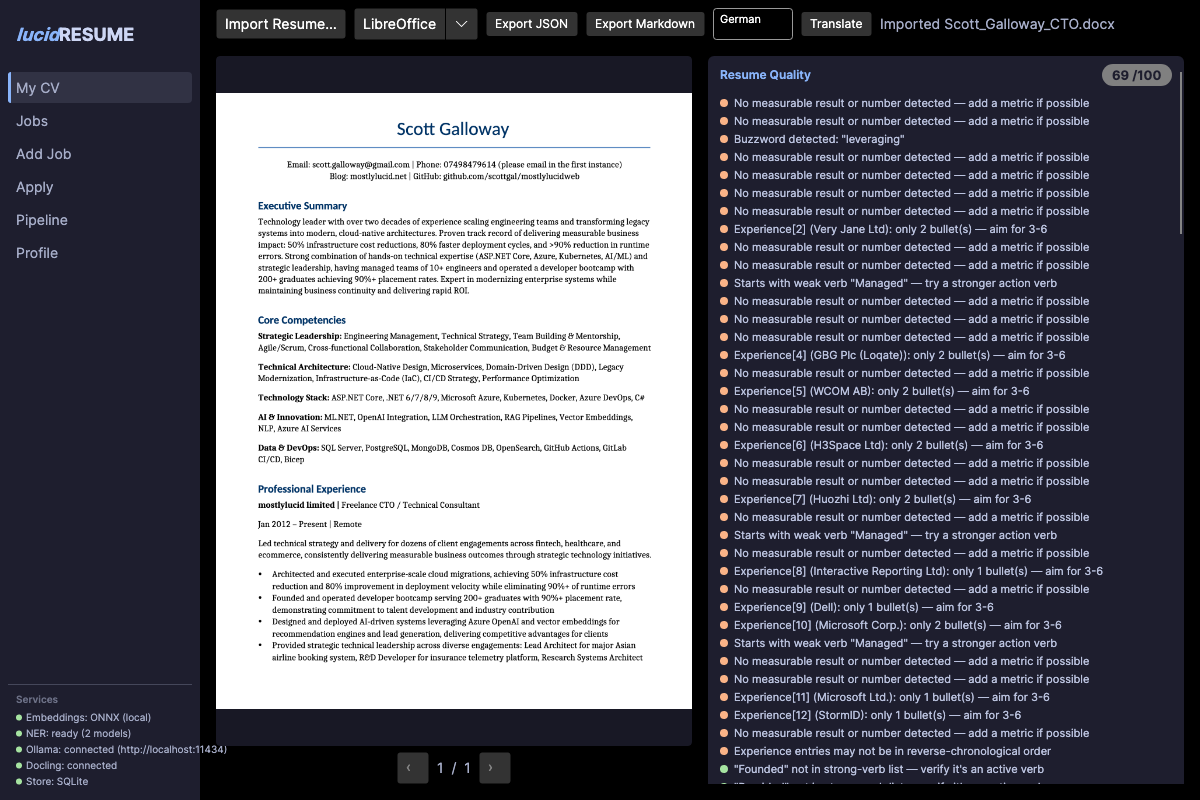
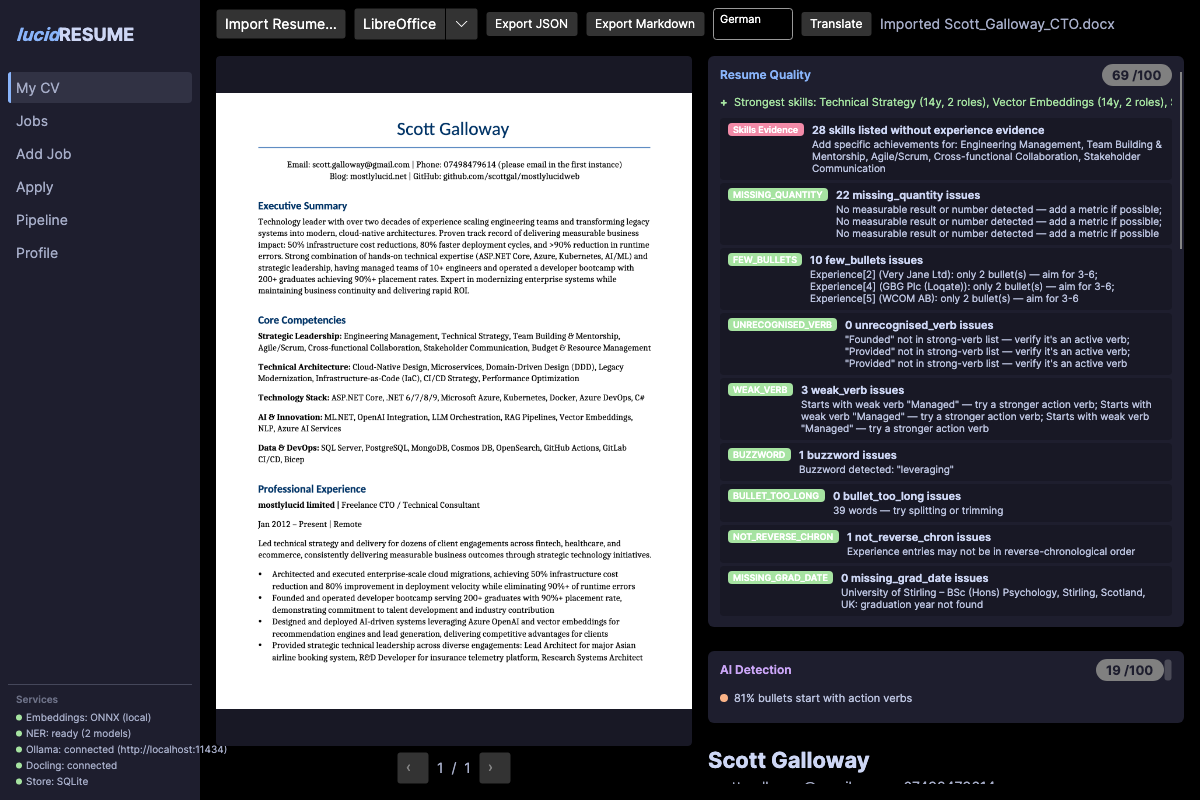
feat: synthesized quality UI — grouped suggestions replace raw findings list
Resume page quality panel now shows:
- Strengths: top skills with years and role count (from skill ledger)
- Grouped suggestions by category (Achievements, Skills Evidence, Sections, etc.)
- Color-coded severity badges (red=Important, yellow=Moderate, green=Minor)
- Concise actionable advice instead of per-bullet findings
- Skill ledger integration: flags unsubstantiated skills, consistency issues
- Raw findings capped at top 5 for backward compat

Before: 30+ individual "No measurable result detected" findings
After: "Most bullets lack measurable results — add metrics to 32 bullets"

Also: QualitySynthesizer registered in DI, updated screenshot

159 tests passing.

Changed region(s): [[0.5858, 0.125, 0.9867, 1.0]]

diff --git a/src/lucidRESUME/ViewModels/Pages/ResumePageViewModel.cs b/src/lucidRESUME/ViewModels/Pages/ResumePageViewModel.cs
@@ -8,6 +8,7 @@ using lucidRESUME.Collabora.DocumentOpeners;
 using lucidRESUME.Collabora.Services;
 using lucidRESUME.AI;
 using lucidRESUME.Core.Interfaces;
+using lucidRESUME.Matching;
 using lucidRESUME.Core.Models.Quality;
 using lucidRESUME.Core.Models.Resume;
 using lucidRESUME.Core.Persistence;
@@ -25,6 +26,8 @@ public sealed partial class ResumePageViewModel : ViewModelBase
     private readonly AiDetectionScorer _aiDetectionScorer;
     private readonly DeAiRewriter _deAiRewriter;
     private readonly ResumeTranslator _translator;
+    private readonly QualitySynthesizer _synthesizer;
+    private readonly SkillLedgerBuilder _ledgerBuilder;
     private readonly IResumeExporter? _jsonExporter;
     private readonly IResumeExporter? _markdownExporter;
     private string? _loadedFilePath;
@@ -57,9 +60,12 @@ public sealed partial class ResumePageViewModel : ViewModelBase
     [ObservableProperty] private IReadOnlyList<SkillGroup> _skillGroups = [];
     [ObservableProperty] private bool _hasResume;
 
-    // Quality analysis
+    // Quality analysis — synthesized suggestions (not raw findings)
     [ObservableProperty] private int _qualityScore;
     [ObservableProperty] private bool _hasQualityReport;
+    [ObservableProperty] private IReadOnlyList<QualitySuggestionViewModel> _qualitySuggestions = [];
+    [ObservableProperty] private IReadOnlyList<string> _resumeStrengths = [];
+    // Keep raw findings for backward compat (used in AI detection too)
     [ObservableProperty] private IReadOnlyList<QualityFindingViewModel> _qualityFindings = [];
 
     // AI detection
@@ -85,6 +91,8 @@ public sealed partial class ResumePageViewModel : ViewModelBase
         AiDetectionScorer aiDetectionScorer,
         DeAiRewriter deAiRewriter,
         ResumeTranslator translator,
+        QualitySynthesizer synthesizer,
+        SkillLedgerBuilder ledgerBuilder,
         IEnumerable<IResumeExporter> exporters)
     {
         _parser = parser;
@@ -96,6 +104,8 @@ public sealed partial class ResumePageViewModel : ViewModelBase
         _aiDetectionScorer = aiDetectionScorer;
         _deAiRewriter = deAiRewriter;
         _translator = translator;
+        _synthesizer = synthesizer;
+        _ledgerBuilder = ledgerBuilder;
         var exporterList = exporters.ToList();
         _jsonExporter = exporterList.FirstOrDefault(e => e.Format == ExportFormat.JsonResume);
         _markdownExporter = exporterList.FirstOrDefault(e => e.Format == ExportFormat.Markdown);
@@ -369,8 +379,33 @@ public sealed partial class ResumePageViewModel : ViewModelBase
         var report = await _qualityAnalyser.AnalyseAsync(Resume);
         QualityScore = report.OverallScore;
         HasQualityReport = true;
+
+        // Build skill ledger for richer insights
+        Core.Models.Skills.SkillLedger? ledger = null;
+        try { ledger = await _ledgerBuilder.BuildAsync(Resume); }
+        catch { /* non-blocking */ }
+
+        // Synthesize grouped suggestions instead of raw findings
+        var synthesis = _synthesizer.Synthesize(report, ledger);
+        QualitySuggestions = synthesis.Suggestions
+            .Select(s => new QualitySuggestionViewModel(
+                s.Category,
+                s.Title,
+                s.Summary,
+                s.Severity switch
+                {
+                    SuggestionSeverity.Important => "#F38BA8",
+                    SuggestionSeverity.Moderate => "#F9E2AF",
+                    _ => "#A6E3A1"
+                },
+                s.AffectedCount))
+            .ToList();
+        ResumeStrengths = synthesis.Strengths;
+
+        // Keep raw findings for backward compat (AI detection panel uses same format)
         QualityFindings = report.AllFindings
             .OrderByDescending(f => f.Severity)
+            .Take(5) // only show top 5 raw findings
             .Select(f => new QualityFindingViewModel(
                 f.Severity.ToString(),
                 f.Severity switch {
@@ -500,3 +535,10 @@ public record EducationItemViewModel(
 public record OpenerItem(string Name, ICommand Command);
 
 public record QualityFindingViewModel(string Severity, string SeverityColor, string Code, string Message, string Section);
+
+public record QualitySuggestionViewModel(
+    string Category,
+    string Title,
+    string Summary,
+    string SeverityColor,
+    int AffectedCount);

diff --git a/src/lucidRESUME.Matching/ServiceCollectionExtensions.cs b/src/lucidRESUME.Matching/ServiceCollectionExtensions.cs
@@ -36,6 +36,8 @@ public static class ServiceCollectionExtensions
                 sp.GetRequiredService<Microsoft.Extensions.Options.IOptions<CoverageOptions>>(),
                 sp.GetService<IEmbeddingService>()));
 
+        services.AddSingleton<QualitySynthesizer>();
+
         // Skill ledger builders + matcher + career planner
         services.AddSingleton<SkillLedgerBuilder>();
         services.AddSingleton<JdSkillLedgerBuilder>();
